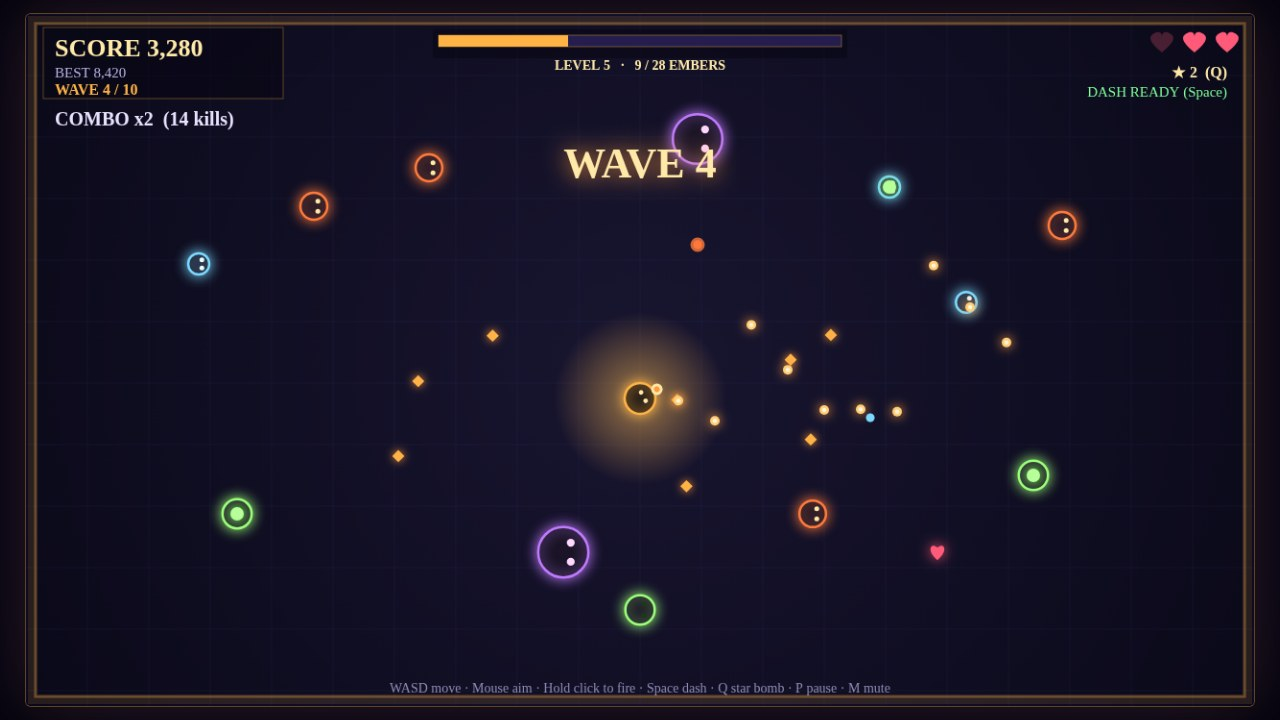
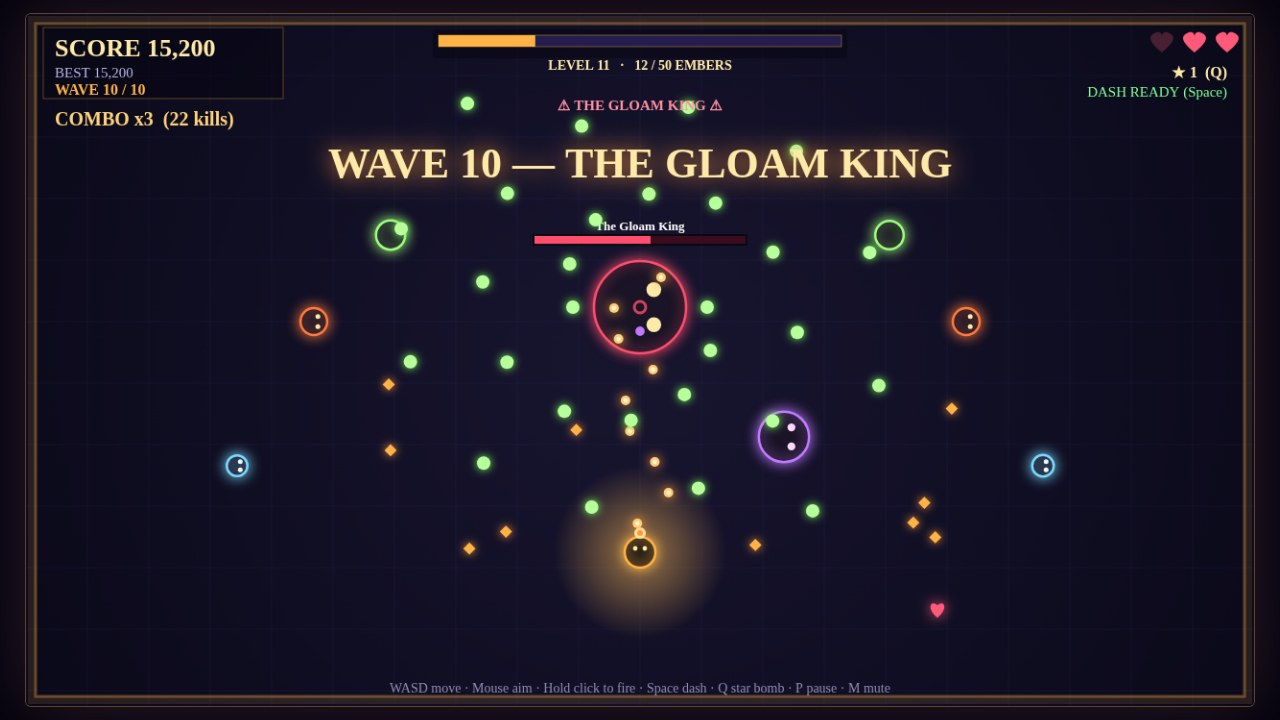
Boss-fight cover + victory stars
- Cover screenshot is now the wave-10 Gloam King fight: spiral orbs,
  boss HP bar, wave banner, full HUD — shows the game's depth at a glance
- Victory screen grades the run with performance stars (win + 2+ hearts
  kept + 60%+ accuracy), visible in the victory screenshot

diff --git a/game/js/shot.js b/game/js/shot.js
@@ -107,6 +107,67 @@ export function setupShot(G, scene, seed) {
     }
     G.levelupChoices = rollChoices(G);
     G.time = 98;
+  } else if (scene === 'boss') {
+    // The cover: the final fight. The Gloam King at the top with its spiral
+    // of orbs, minions closing in, the keeper below with a full spread of
+    // bolts, the boss bar and the wave banner all on screen.
+    G.state = 'playing';
+    G.wave = 10;
+    G.score = 15200;
+    G.best = 8420;
+    G.kills = 310;
+    G.combo = 22;
+    G.comboTimer = 2.0;
+    G.bestCombo = 31;
+    G.player.level = 11;
+    G.player.xp = 12;
+    G.player.xpNext = 50;
+    G.player.hp = 2;
+    G.player.multishot = 3;
+    G.player.pierce = 2;
+    G.player.bombs = 1;
+    G.player.x = G.width / 2;
+    G.player.y = 560;
+    G.player.angle = -Math.PI / 2;
+    const king = spawnEnemy(G, 'king', G.width / 2, 305, true);
+    king.spawnT = 1;
+    king.hp = Math.round(king.maxHp * 0.55);
+    for (const [type, x, y] of [['mite', 300, 320], ['mite', 980, 320], ['wisp', 220, 470], ['wisp', 1060, 470], ['spitter', 380, 230], ['spitter', 900, 230], ['brute', 790, 440]]) {
+      const e = spawnEnemy(G, type, x, y, false);
+      e.spawnT = 1;
+    }
+    // The King's spiral: two arms of orbs winding outward.
+    for (let i = 0; i < 14; i++) {
+      const a = i * 0.55;
+      const r = 70 + i * 16;
+      const ox = king.x + Math.cos(a) * r;
+      const oy = king.y + Math.sin(a) * r;
+      G.ebullets.push({ x: ox, y: oy, vx: Math.cos(a) * 170, vy: Math.sin(a) * 170, r: 7, damage: 1, life: 5 });
+      const a2 = a + Math.PI;
+      const ox2 = king.x + Math.cos(a2) * r;
+      const oy2 = king.y + Math.sin(a2) * r;
+      G.ebullets.push({ x: ox2, y: oy2, vx: Math.cos(a2) * 170, vy: Math.sin(a2) * 170, r: 7, damage: 1, life: 5 });
+    }
+    // The keeper's triple-shot fan, mid-flight toward the King.
+    for (let i = 0; i < 9; i++) {
+      const a = -Math.PI / 2 + (G.rng() - 0.5) * 0.45;
+      G.bullets.push({
+        x: G.player.x + (G.rng() - 0.5) * 60, y: G.player.y - 30 - i * 32,
+        vx: Math.cos(a) * 580, vy: Math.sin(a) * 580,
+        r: 5, damage: 30, pierce: 2, hitIds: new Set(), life: 1,
+      });
+    }
+    for (let i = 0; i < 10; i++) {
+      G.gems.push({ x: 300 + G.rng() * 680, y: 380 + G.rng() * 180, value: 1, dead: false, bob: G.rng() * 6 });
+    }
+    G.pickups.push({ x: 950, y: 620, kind: 'heart', dead: false, bob: 0 });
+    spawnBurst(G, 640, 330, '#c07aff', 16, 220, 0.6);
+    spawnRing(G, king.x, king.y, '#ff4d6d', 150);
+    G.banner = 'WAVE 10 — THE GLOAM KING';
+    G.bannerTimer = 1.6;
+    G.time = 480;
+    G.stats.shotsFired = 1320;
+    G.stats.shotsHit = 990;
   } else if (scene === 'victory') {
     G.state = 'victory';
     G.wave = 10;

diff --git a/game/js/ui.js b/game/js/ui.js
@@ -154,19 +154,28 @@ export function drawVictory(G, ctx) {
   ctx.save();
   ctx.shadowColor = '#ffd27a';
   ctx.shadowBlur = 34;
-  title(ctx, 'DAWN BREAKS', G.width / 2, 150, 64, '#ffe9a8');
+  title(ctx, 'DAWN BREAKS', G.width / 2, 140, 64, '#ffe9a8');
   ctx.restore();
-  title(ctx, 'The Gloam King is fallen. The valley wakes in warm light.', G.width / 2, 194, 19, '#e8e2ff');
-  title(ctx, 'You kept the last lantern burning — all 10 waves survived.', G.width / 2, 222, 19, '#e8e2ff');
+  title(ctx, 'The Gloam King is fallen. The valley wakes in warm light.', G.width / 2, 184, 19, '#e8e2ff');
+  title(ctx, 'You kept the last lantern burning — all 10 waves survived.', G.width / 2, 212, 19, '#e8e2ff');
   if (G.newBest) {
-    title(ctx, '★ NEW BEST SCORE! ★', G.width / 2, 258, 24, '#ffd27a');
+    title(ctx, '★ NEW BEST SCORE! ★', G.width / 2, 244, 22, '#ffd27a');
   }
-  panel(ctx, G.width / 2 - 280, 292, 560, 190);
+  panel(ctx, G.width / 2 - 280, 278, 560, 224);
   statsLines(G).forEach((line, i) => {
-    title(ctx, line, G.width / 2, 328 + i * 32, i === 0 ? 24 : 18, i === 0 ? '#ffe9a8' : '#e8e2ff');
+    title(ctx, line, G.width / 2, 314 + i * 32, i === 0 ? 24 : 18, i === 0 ? '#ffe9a8' : '#e8e2ff');
   });
+  // Performance stars: one for the win, one for keeping 2+ hearts, one
+  // for 60%+ accuracy. They are the run's grade, shown on the results.
+  const stars = 1 + (G.player.hp >= 2 ? 1 : 0) + (accuracy(G) >= 60 ? 1 : 0);
+  ctx.font = 'bold 30px Georgia, serif';
+  ctx.textAlign = 'center';
+  for (let i = 0; i < 3; i++) {
+    ctx.fillStyle = i < stars ? '#ffd27a' : 'rgba(255, 210, 122, 0.25)';
+    ctx.fillText('★', G.width / 2 - 44 + i * 44, 486);
+  }
   const pulse = 0.65 + 0.35 * Math.sin(G.time * 3);
   ctx.globalAlpha = pulse;
-  title(ctx, '▶  PRESS R OR CLICK TO PLAY AGAIN  ◀', G.width / 2, 546, 22, '#ffe9a8');
+  title(ctx, '▶  PRESS R OR CLICK TO PLAY AGAIN  ◀', G.width / 2, 556, 22, '#ffe9a8');
   ctx.globalAlpha = 1;
 }
